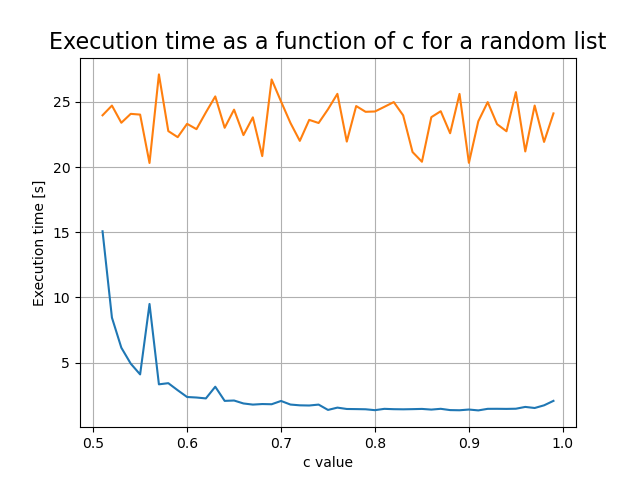
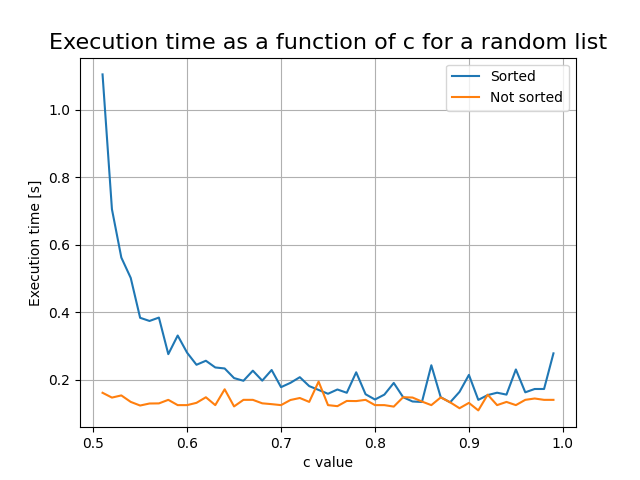
test work

diff --git a/lab3/code/tests.py b/lab3/code/tests.py
@@ -26,13 +26,13 @@ class tests:
       tree.displaying = True
       tree.insert_list(self.input_data)
       tree.display()
-    def plot(self, x: list, y: list, x_label: str, y_label: str, plot_header: str,lables: list = None):
+    def plot(self, x: list, y: list, x_label: str, y_label: str, plot_header: str,labels: list = None):
         fig = plt.figure()
         plt.title(plot_header, fontsize='16')
 
         if type(y[0]) == list:
-          plt.plot(x,y[0],label =lables[0])
-          plt.plot(x,y[1],lable=lables[1])
+          plt.plot(x,y[0],label =labels[0])
+          plt.plot(x,y[1],label=labels[1])
         else:
           plt.plot(x, y, label="")
         plt.legend(loc="upper right")
@@ -97,7 +97,7 @@ class tests:
                   "c value", "Execution time [s]", f"Search time for a balanced bst as a function of unbalance ")
     """
 
-    def test_validate_functions(self):
+    def validate_functions(self):
         """
           Verifies that the functions work for a c in the range
         """
@@ -115,7 +115,7 @@ class tests:
       print("*"*100)
       results_sorting = []
       results_not_sorting = []
-      length = int(average(self.length_range))
+      length = self.length_range[0]
       data = list(np.random.randint(-length, length, length))
       data = sorted(data)
       countLoops = 0
@@ -135,14 +135,14 @@ class tests:
       x = list(np.arange(self.c_range[0], self.c_range[1], self.c_interval))
       y = [results_sorting, results_not_sorting]
       self.plot(x, y,
-                "c value", "Execution time [s]", f"Execution time as a function of c for a preorderd list",lables=["Sorted","Not sorted"])
+                "c value", "Execution time [s]", f"Execution time as a function of c for a preorderd list",labels=["Sorted","Not sorted"])
     def test_semi_sorted_list(self):
       print("*"*100)
       print("Testing semi sorted list")
       print("*"*100)
       results_sorting = []
       results_not_sorting = []
-      length = int(average(self.length_range))
+      length = self.length_range[0]
       data = sorted(list(np.random.randint(-length, length, length)))
       data = data[len(data)//2:]+data[:len(data)//2]
       countLoops = 0
@@ -162,14 +162,14 @@ class tests:
       x = list(np.arange(self.c_range[0], self.c_range[1], self.c_interval))
       y = [results_sorting, results_not_sorting]
       self.plot(x, y,
-                "c value", "Execution time [s]", f"Execution time as a function of c for a semi sorted list",lables=["Sorted","Not sorted"])
+                "c value", "Execution time [s]", f"Execution time as a function of c for a semi sorted list",labels=["Sorted","Not sorted"])
     def test_reverse_sorted_list(self):
       print("*"*100)
       print("Testing reverse sorted list")
       print("*"*100)
       results_sorting = []
       results_not_sorting = []
-      length = int(average(self.length_range))
+      length = self.length_range[0]
       data = sorted(list(np.random.randint(-length, length, length)))
       data = data[::-1]
       countLoops = 0
@@ -189,14 +189,14 @@ class tests:
       x = list(np.arange(self.c_range[0], self.c_range[1], self.c_interval))
       y = [results_sorting, results_not_sorting]
       self.plot(x, y,
-                "c value", "Execution time [s]", f"Execution time as a function of c for a reverse sorted list",lables=["Sorted","Not sorted"])
+                "c value", "Execution time [s]", f"Execution time as a function of c for a reverse sorted list",labels=["Sorted","Not sorted"])
     def test_random_list(self):
       print("*"*100)
       print("Testing random list")
       print("*"*100)
       results_sorting = []
       results_not_sorting = []
-      length = int(average(self.length_range))
+      length = self.length_range[0]
       data = sorted(list(np.random.randint(-length, length, length)))
       countLoops = 0
       for c in list(np.arange(self.c_range[0], self.c_range[1], self.c_interval)):
@@ -215,7 +215,7 @@ class tests:
       x = list(np.arange(self.c_range[0], self.c_range[1], self.c_interval))
       y = [results_sorting, results_not_sorting]
       self.plot(x, y,
-                "c value", "Execution time [s]", f"Execution time as a function of c for a random list",lables=["Sorted","Not sorted"])
+                "c value", "Execution time [s]", f"Execution time as a function of c for a random list",labels=["Sorted","Not sorted"])
     def test_constant_c_varying_length(self):
         print("*"*100)
         c = self.c_range[1]+self.c_range[0]
@@ -258,8 +258,9 @@ class tests:
 
 if __name__ == "__main__":
     test = tests()
-    test.test_validate_functions()
+    test.validate_functions()
     assert test.results["validate_functions"][0]
+    #test.test_semi_sorted_list()
     test.run_all_tests()
     print(test.results)
     #test.show_for_average_c()
